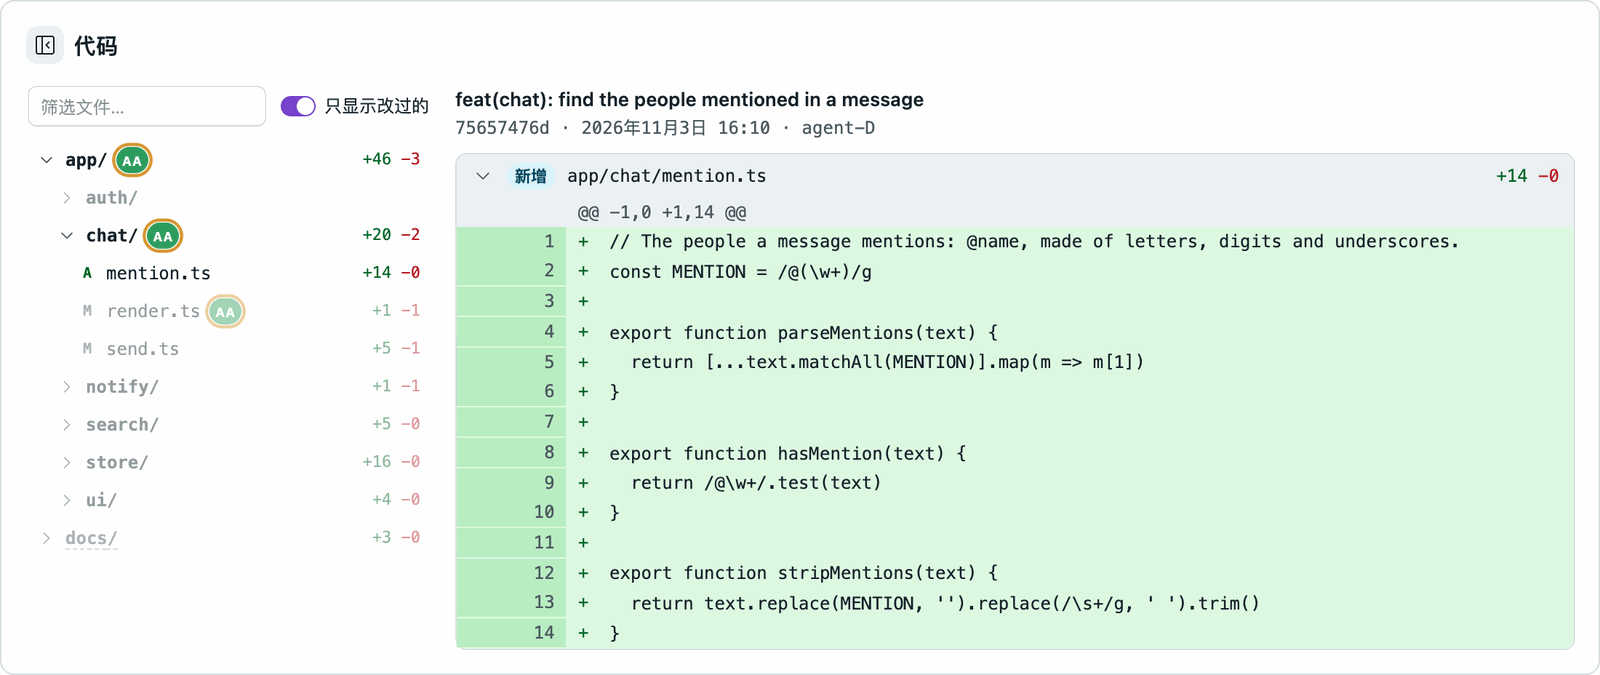
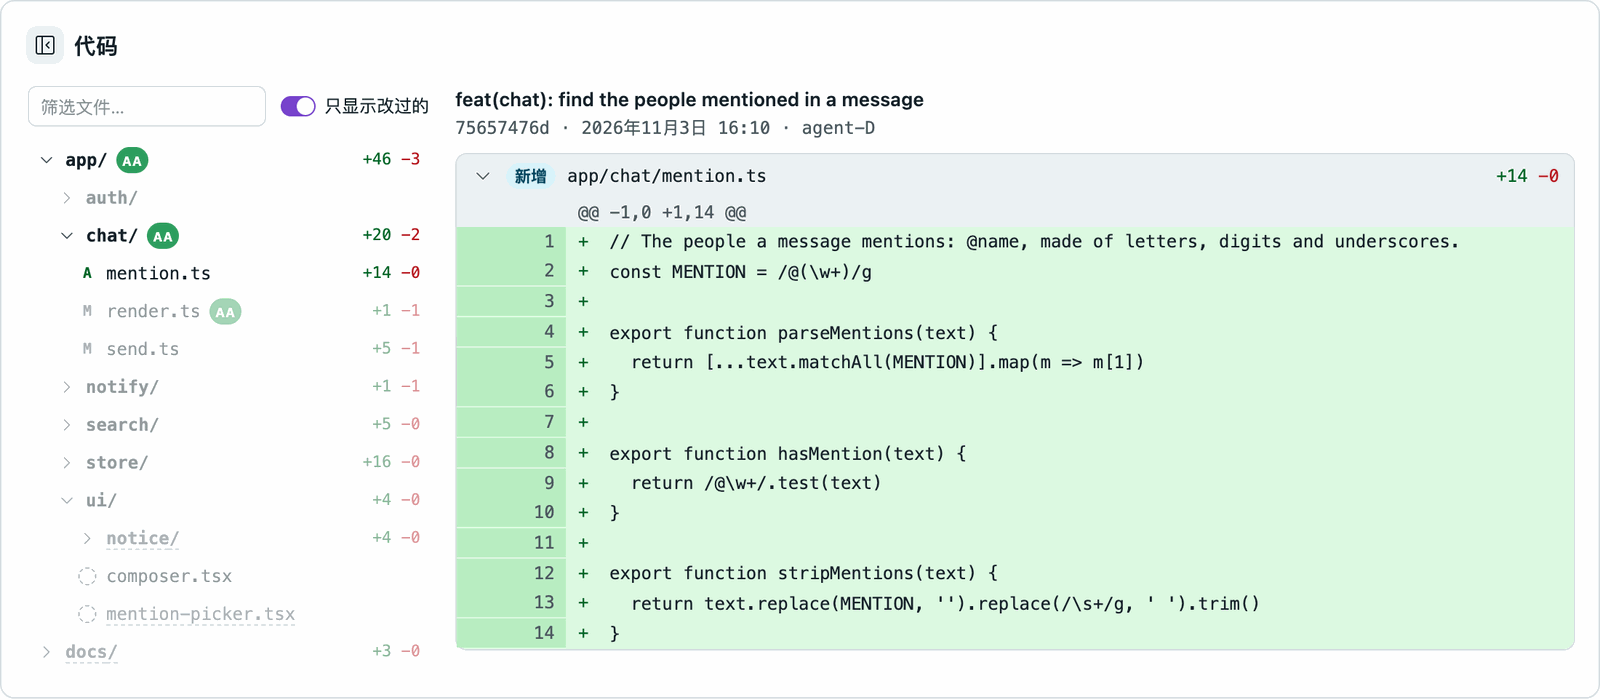
README: gate steps, planned files and terms agree with the UI
- Only a gate step with a command has Run; the steps say what to do.
- The code pictures are retaken with ui/ open, so the planned files
  (dashed circles) the text and alt text name are in them.
- English terms name the UI's "Manual step" for a gate, and a finding is
  a problem a review, tests or a gate found, in both languages.

Task: u2#9

diff --git a/README.md b/README.md
@@ -48,9 +48,9 @@ What they report becomes one picture, in a few terms. A **project** is a folder 
 repositories. An **intent** is a goal in it. A **unit** is a piece of an intent built on
 its own branch; research and design for the whole intent go in a research unit, which has
 no branch and is never merged. A **task** is one piece of work handed to one agent
-(implement, review, tests, research) or to you: a **gate**, a step only you can do, such
-as a manual deploy, a try-out or a decision, that an agent waits on. A **finding** is a
-problem a review found. **Evidence** is a check run on a task's work, the command and its
+(implement, review, tests, research) or to you: a **gate** ("Manual step" in the UI), a
+step only you can do, such as a manual deploy, a try-out or a decision, that an agent
+waits on. A **finding** is a problem a review, tests or a gate found. **Evidence** is a check run on a task's work, the command and its
 result.
 
 ## One intent, from goal to merge
@@ -106,8 +106,8 @@ since that work must meet it.
 blocks someone: agents waiting for a person in their terminal, workers that stopped
 without delivering, and gates, among them the questions a manager asks you (merge now?
 which design?). Here agent-E asks whether it may run `npm test`, and a gate waits for you
-to try whether an @ notification says who mentioned you; its steps are commands, each with
-"Run", which runs it in a shell of your own once you confirm it. Then machines past an
+to try whether an @ notification says who mentioned you; its steps say what to do, and a
+step with a command has "Run", which runs it in a shell of your own once you confirm it. Then machines past an
 alert threshold, then decisions on findings, then gaps such as a commit that names no
 task, and last the chores that block nobody.
 
